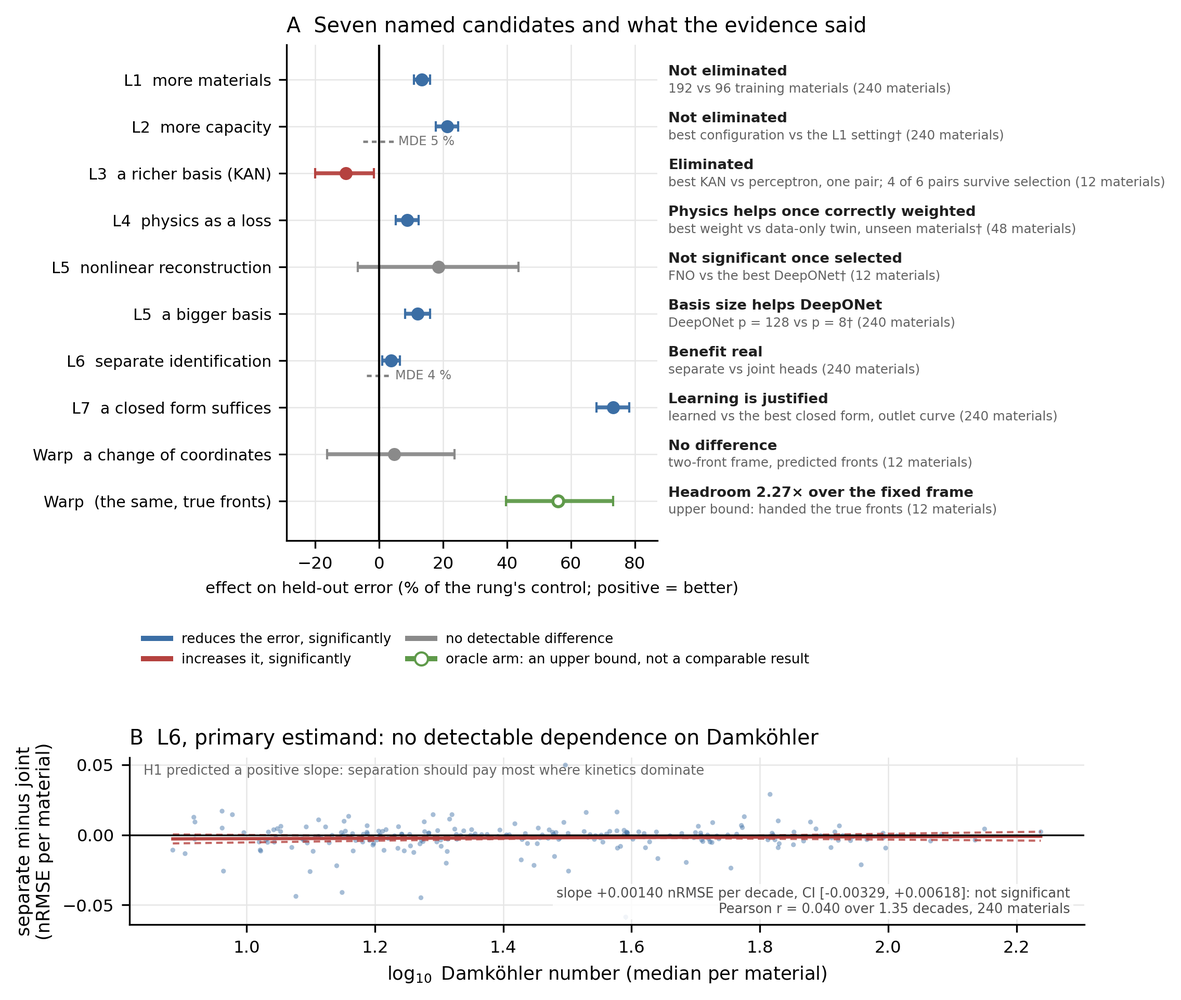
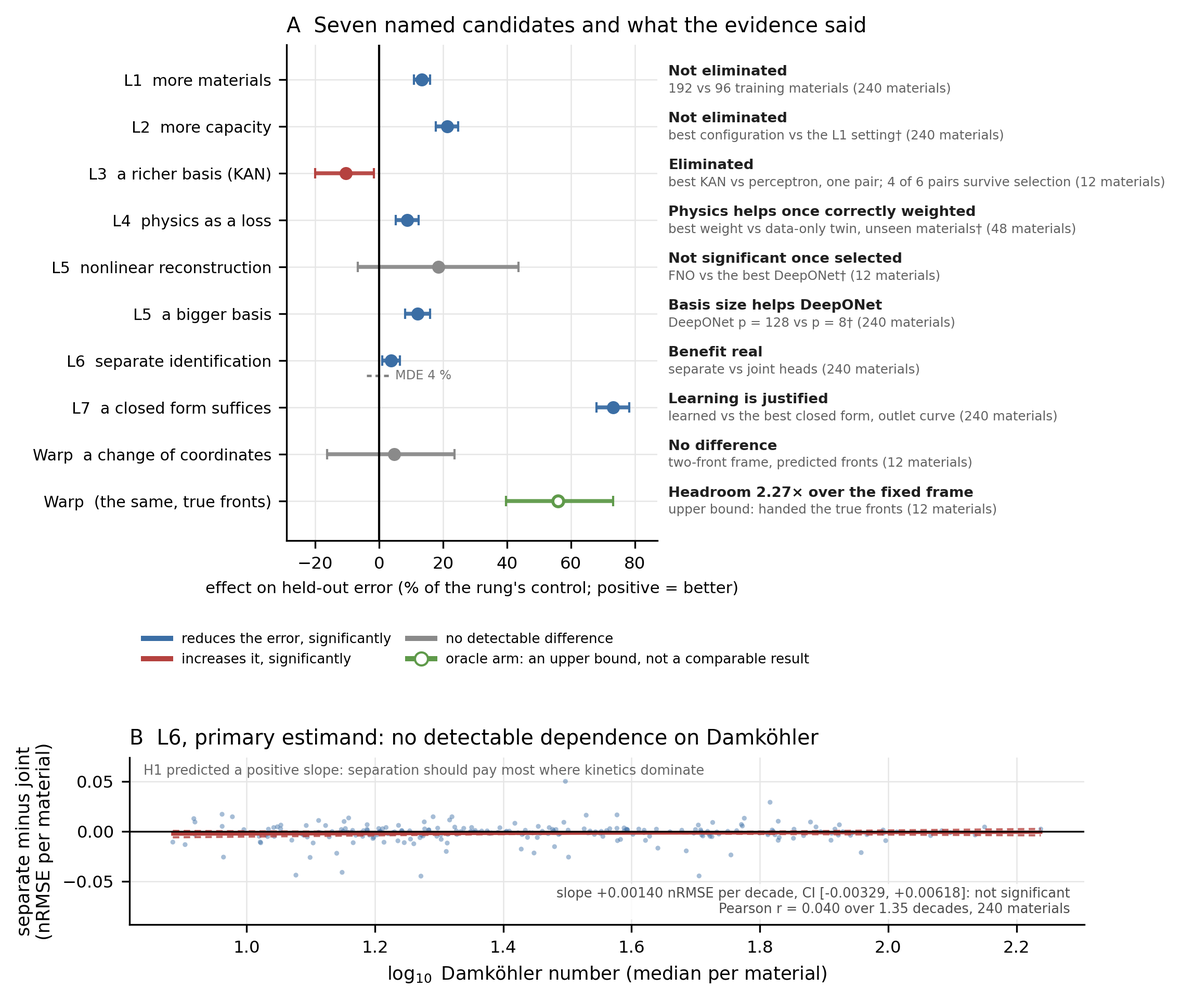
Final full read addressed: two cross-references repointed to Section 2 after the restructure; Figure 10's fourth curve, D_e, k and Pe explained and the bracketing curves named; every oracle calibration named in contribution 1 reported in Section 8; the garbled L3 sentence rewritten; 'sweeps' not 'fa

diff --git a/paper/manuscript.tex b/paper/manuscript.tex
@@ -160,7 +160,7 @@ the range is extended past it, unless the metric has demonstrably stopped changi
 \centering
 \includegraphics[width=\textwidth]{../figures/Fig0_schematic.pdf}
 \caption{What a surrogate maps. \textbf{A}~A packed bed of adsorbent pellets fed humid
-air; the eleven numbers of Table~\ref{tab:params} describe the adsorbent, the bed and
+air; eleven parameters (Section~\ref{sec:methods}) describe the adsorbent, the bed and
 the operating condition. \textbf{B}~One stored solver field of the larger dataset,
 \(c/c_{\mathrm{in}}\) over position and time, chosen by a fixed rule (the clearest
 complete two-front breakthrough). \textbf{C}~Its outlet curve: a fast front on the
@@ -191,7 +191,7 @@ established in operator learning: Poseidon \cite{herde2024poseidon} pretrains on
 reports that it ``generalizes very well to new physics that is not seen during
 pretraining'' across fifteen downstream tasks, and Multiple Physics Pretraining \cite{mccabe2023multiple}
 reports transfer to ``systems with previously unseen physical components''.
-Held-out \emph{materials} is established for interatomic potentials: MOFSimBench \cite{krass2025mofsimbench}
+Testing on held-out \emph{materials} is established for interatomic potentials: MOFSimBench \cite{krass2025mofsimbench}
 evaluates twenty universal machine-learning interatomic potentials on
 metal--organic frameworks. In adsorption-process engineering a surrogate that takes
 the material as an input is also established: MAPLE \cite{pai2020generalized} takes
@@ -206,7 +206,7 @@ process level with the help of learned models
 our first rungs are a non-intrusive reduced-order model in the sense of Hesthaven and
 Ubbiali \cite{hesthaven2018non}: a POD basis with a
 learned map from parameters to its coefficients. To the surrogate, a ``material'' is a
-point in the space of isotherm and bed parameters of Table~\ref{tab:params}, with its
+point in the space of isotherm and bed parameters (Section~\ref{sec:methods}), with its
 kinetics derived from them, and a sample adds the operating conditions; the
 question this paper asks (which term binds the error, the basis or the map) is
 the parametric reduced-order-model question, asked of an adsorption column and
@@ -293,7 +293,7 @@ separate phase; it holds a negligible amount of water next to the adsorbed phase
 the material's step humidity at the feed temperature. Feed concentration follows
 from relative humidity through the ideal-gas law and a Magnus saturation pressure.
 
-\paragraph{Boundary and initial conditions} Both inlets are of flux (Danckwerts)
+\paragraph{Boundary and initial conditions} Both inlet conditions are of flux (Danckwerts)
 type: on the feed side of the inlet face there is no dispersion or conduction, so the
 feed's advective flux equals the bed's advective plus dispersive (or conductive) flux
 just inside it,
@@ -445,7 +445,8 @@ Langmuir.
 Measured across all \nIsoNmat\ sampled materials rather than at two named
 configurations: \(n > 1\) strictly for every material, so the cooperative term
 is \(o(c)\) at the origin and the Henry constant is finite and positive everywhere.
-But \(K_H\) spans \nIsoKHmin--\nIsoKHmax\ \si{\mole\per\kilo\gram} per
+But the Henry constant \(K_H = q_{\max} f_H b_H\), the slope of
+equation~\eqref{eq:isotherm} at the origin, spans \nIsoKHmin--\nIsoKHmax\ \si{\mole\per\kilo\gram} per
 \si{\mole\per\metre\cubed}, \nIsoKHdec\ decades, median \nIsoKHmed. The
 concentration at which the cooperative term reaches 1\,\% of loading (the top of
 the accessible Henry region) reaches \(10^{\nIsoHenryMax}\) of the feed at best
@@ -589,7 +590,8 @@ survive that calibration and was withdrawn (Section~\ref{sec:corrections}, A13).
 cost accounting, the re-measurement of L5's basis-versus-map decomposition and L5's
 DeepONet basis-size sweep run on the
 \nNclustFolds-material folds at \(\alpha = \nAlphaFolds\). Rung L4 runs on the single
-split (\nLfourbMatNmat\ held-out materials on its material axis) at \(\alpha = \nAlphaManifest\). Rung L3,
+split (\nLfourbMatNmat\ held-out materials on its material axis) at \(\alpha = \nAlphaManifest\)
+(empirical size \nFprManifestCal\,\%). Rung L3,
 L5's operator comparisons, the first measurement of its decomposition and the
 coordinate change run on the earlier \nNclustLegacy-material design and report at \(\alpha = \nLfiveAlpha\),
 which achieves an empirical size of \nFprLegacyUsed\,\% there, stricter than the
@@ -849,7 +851,7 @@ normalised root-mean-square error (equation~\eqref{eq:nrmse}).}
 \begin{figure}[!tbp]
 \centering
 \includegraphics[width=\textwidth]{../figures/Fig3_rungs.pdf}
-\caption{The rungs that measure a curve. \textbf{A}~L1's fixed-basis arms over 240 held-out materials, against the POD floor. \textbf{B}~The materials learning curve (\nLCpField\ POD modes of \(c\), one gradient-boosted regressor per mode) with the basis refit on each subset and with it fixed on all 192; the two lie on top of each other; \(N_{\mathrm{mat}}\) is the number of training materials. \textbf{C}~L2's capacity sweep: held-out error is U-shaped in depth while training error falls almost monotonically (it rises only at the deepest setting). \textbf{D}~L3 at three matched budgets, each family at its own best learning rate; those rates span three orders of magnitude (Section~\ref{sec:ladder}).}
+\caption{The rungs that measure a curve. \textbf{A}~L1's fixed-basis arms over 240 held-out materials, against the POD floor. \textbf{B}~The materials learning curve (\nLCpField\ POD modes of \(c\), one gradient-boosted regressor per mode) with the basis refit on each subset and with it fixed on all 192; the two lie on top of each other; \(N_{\mathrm{mat}}\) is the number of training materials. \textbf{C}~L2's capacity sweep: held-out error is U-shaped in depth while training error falls almost monotonically (it rises only at the deepest setting). \textbf{D}~L3 at three matched budgets, each family at its own best learning rate; those rates span three orders of magnitude (Section~\ref{sec:ladder}). MLP, multilayer perceptron; KAN, Kolmogorov--Arnold network; RBF, radial basis function; nRMSE (\(c\)), the error of equation~\eqref{eq:nrmse} on the concentration channel.}
 \label{fig:rungs}
 \end{figure}
 
@@ -898,7 +900,7 @@ materials, \nLClargestFixed\ against \nLClargest\ at 192. A basis fitted on 12
 materials reconstructs held-out fields as well as one fitted on 192, once the
 regressor sees the same data. \emph{None of the gain is in the basis; all of it is
 in the parameter-to-coefficient map.} Modes whose coefficient map clears
-a fifth of the variance grow from \nLCmodesSmall\ to \nLCmodesLarge\ and are still climbing (Figure~\ref{fig:mechanism}).
+a fifth of the variance grow from \nLCmodesSmall\ to \nLCmodesLarge\ and are still climbing (Section~\ref{sec:mechanism}).
 
 The conditions axis behaves differently: exponent \nLCcondBeta, \nLCexpRatio{} of the material
 exponent. Both axes are open; materials are the one that matters.
@@ -918,7 +920,7 @@ whole field, is worth a constant factor (Section~\ref{sec:mechanism}).
 \subsection{L2: more capacity}
 
 \nLtwoNconfigs{} configurations in both directions around the L1 setting, on the same
-folds and basis. \nLtwoNUshaped{} families are U-shaped with interior optima
+folds and basis. \nLtwoNUshaped{} sweeps are U-shaped with interior optima
 (width \nLtwoWidthBest{} for the perceptron's width, \nLtwoDepthBest{} layers for its depth, tree
 depth \nLtwoXgbBest{} for gradient boosting) and the random forest
 \nLtwoRfShape: it is still improving at its last step, but that step is a fully
@@ -932,7 +934,7 @@ is still improving at its last step (fully grown trees, \nLtwoRfBest; last-step
 interval [\nLtwoRfLastLo, \nLtwoRfLastHi]). The rule then asks for the sweep to be
 extended, and it cannot be: one sample per leaf is the ceiling of that family's
 capacity. The verdict therefore stays as declared. Our interpretation, which is
-not part of the verdict: the \nLtwoNUshaped{} neural and boosting families saturate with interior
+not part of the verdict: the neural and boosting families saturate with interior
 optima, and the one family that has not run out of improvement has run out of
 capacity while sitting well behind the best perceptron. Either way, the optimum is not where the
 earlier sweep left it. The best configuration anywhere is \nLtwoBestName\
@@ -976,10 +978,10 @@ could only widen its lead over arms that are all bracketed, so we report it rath
 than extend it. The Kolmogorov--Arnold arms, the ones being argued against, are the
 ones whose tuning is complete.
 
-Comparing against the strongest configuration found anywhere rather than the
-matched-budget cell, which is a separate audit configuration (a fixed budget, depth three,
-each arm at the better of two higher learning rates per seed), which is why its
-perceptron rate differs from the sweep's: the best Kolmogorov--Arnold network in the entire study is the
+The strongest configuration found anywhere is not the matched-budget cell but a
+separate audit configuration (a fixed budget, depth three, each arm at the better of two
+higher learning rates per seed), which is why its perceptron rate differs from the
+sweep's. In it, the best Kolmogorov--Arnold network in the entire study is the
 \emph{least} Kolmogorov--Arnold-like one, and it reaches \nLthreeBestKan\ against
 the perceptron's \nLthreeBestKanMlp, a difference of \nLthreeBestKanDiff,
 interval [\nLthreeBestKanLo, \nLthreeBestKanHi]: \nLthreeBestKanSig. That interval
@@ -1208,7 +1210,7 @@ sweep is confounded with width at a matched budget: the spectral weights cost
 \(\mathcal{O}(w^2 m^2)\), so width falls as modes rise. The monotone degradation
 across that sweep therefore \emph{cannot} be read as ``more Fourier modes do not
 help''. The basis-size statements are made for DeepONet, where \(p\) and width are
-controlled separately, and is not claimed for the Fourier operator.
+controlled separately, and are not claimed for the Fourier operator.
 
 \subsection{L6: separate identification of the kinetic and equilibrium objects}
 
@@ -1236,7 +1238,7 @@ therefore not ruled out; what is ruled out is a dependence strong enough to have
 seen at this design's resolution. The axis is also not purely kinetic: for the
 \nDcExtendedPct\,\% of runs whose horizon was extended, Damk\"ohler exceeds the kinetic
 ratio \(k_{\mathrm{LDF}}t_{\mathrm{st}}\) by the extension factor
-(Section~\ref{sec:methods}), so part of its spread is the length of the run.
+(Section~\ref{sec:model}), so part of its spread is the length of the run.
 
 \paragraph{The scope of that refutation} Kinetic control means Damk\"ohler well below unity, and this dataset never
 goes there: its lowest per-material value is \nDaMatMin. The hypothesis predicted
@@ -1248,7 +1250,7 @@ oversight: the kinetic coefficient is not a free parameter in this dataset but i
 derived from particle size through the Glueckauf relation, so
 \(\mathrm{Da} \propto d_p^{-2}\) and reaching \(\mathrm{Da} = 1\) from our slowest
 bed would take a pellet of about \nDaPelletForUnity\,\si{\milli\metre}. That is
-\nDaPelletsAcross\ pellets across the \nDataBedLenCm\,\si{\centi\metre} column, where a
+\nDaPelletsAcross\ pellet diameters along the \nDataBedLenCm\,\si{\centi\metre} column, where a
 one-dimensional plug-flow model is no longer the right description. This is the same
 objection Section~\ref{sec:limitations} raises against our own anchor bed. Decoupling
 \(k_{\mathrm{LDF}}\) from \(d_p\) to reach that regime would restore precisely the
@@ -1371,7 +1373,9 @@ predicting the mean, and
 
 Against an oracle reconstruction handed the true coefficients for its first \(k\)
 modes, the best DeepONet found anywhere performs like a \nLfiveOracleONet-mode
-oracle, and the best Fourier operator like a \nLfiveOracleFNO-mode one. Three
+oracle, the best Fourier operator like a \nLfiveOracleFNO-mode one, DeepOKAN like a
+\nLfiveOracleOKAN-mode one and POD with gradient boosting like a
+\nLfiveOraclePodReg-mode one. Three
 independent function classes (POD plus random forest,
 plus gradient boosting, and DeepONet) are flat in rank on the legacy design while the floor falls by a factor of \nFloorDrop{} (on the full design DeepONet gains a little up to \(p = 16\), A29). Training basis and coefficients together, or learning the
 whole field at once, is worth a constant factor, up to \(\nOperatorLever\times\)
@@ -1415,7 +1419,7 @@ inference, made twice.
 \(k = 8\)--64. The Kolmogorov \(n\)-width, whose \(n\) is this mode count, is the
 residual \emph{norm}, the square root of that, so it decays as \(k^{\nNwidthExpErr}\)
 and halving the error requires
-\(\nNwidthHalving\times\) the modes permanently. We separate the two because an
+\(\nNwidthHalving\times\) the modes. We separate the two because an
 earlier draft quoted the energy exponent and called it the \(n\)-width, next to a
 halving factor computed correctly from the norm: two numbers in one sentence
 that disagreed by a factor of two in the exponent. Any method whose output is a linear
@@ -1557,7 +1561,7 @@ and the wall clock from the comparison and leaves a ratio a reader can carry to 
 hardware. On ours, the \nCostNSolves\ accepted simulations of the dataset took
 \nCostGenWall\ hours on \nCostWorkers\ workers, so one solve-equivalent is
 \nCostSolveSec\ worker-seconds and the whole training set cost about
-\nCostGenCoreHours\ core-hours. We report worker-seconds rather than
+\nCostGenCoreHours\ worker-hours. We report worker-seconds rather than
 core-seconds because a worker's own numerical libraries may use more than one
 thread, so this is an upper bound on the serial cost of a solve and a lower bound on
 what it occupies of a machine.
@@ -1761,8 +1765,11 @@ not modest for the anchor.
 reported as a limitation rather than as a result. The pre-registered primary uses the
 high-P\'eclet limit of the correlation; the second curve is the \emph{same}
 correlation without that truncation, at the same particle size, velocity and
-molecular diffusivity; the third is the authors' own Bruggeman closure. The measured
-95\,\% arrival time is bracketed by the last two.}
+molecular diffusivity; the third is the authors' own Bruggeman closure for the
+effective dispersion \(D_e\); the fourth repeats that closure at the smallest LDF
+constant \(k\) (in s\(^{-1}\)) that still keeps the step. Pe is the column P\'eclet
+number. The measured 95\,\% arrival time is bracketed by the untruncated correlation and
+the authors' Bruggeman closure.}
 \label{fig:anchorposthoc}
 \end{figure}
 
@@ -1811,7 +1818,7 @@ surrogate built only for harvesting conditions would not need them.
 
 \paragraph{The step does not move between feed temperatures} The cluster affinity is
 set per run so that the step sits at the material's step humidity at the feed
-temperature (Section~\ref{sec:methods}). Within a run the step still moves with the
+temperature (Section~\ref{sec:model}). Within a run the step still moves with the
 local bed temperature through the heat of adsorption, but across runs a material's
 step humidity at the feed temperature is the same by construction. In real MOF-303
 it moves with temperature \cite{hastings2024high}. The
@@ -1827,7 +1834,7 @@ constant.
 measurement on a covalent organic framework (COF) suitable for this comparison, so no
 claim is made for that class.
 
-\paragraph{Three rungs are exploratory} L3, L5's operator comparison and the
+\paragraph{Three comparisons are exploratory} L3, L5's operator comparison and the
 coordinate change are measured over \nNclustLegacy\ held-out materials, L4 over
 \nLfourbMatNmat, and L1, L2, L6 and L7 over \nNclustFolds. A verdict measured at one
 material count need not survive another (A26), so the three small-design verdicts are
@@ -1863,7 +1870,7 @@ each coefficient separately is worth up to \(\nOperatorLever\times\), of the sam
 as the \(\nLCratio\times\) that sixteen times more materials buys a fixed learner.
 
 \paragraph{What is eliminated, and what is not} Capacity is not eliminated: a random
-forest is still improving at its capacity ceiling, while the \nLtwoNUshaped{} neural and
+forest is still improving at its capacity ceiling, while the neural and
 boosting families saturate. At matched parameters a perceptron beats both
 Kolmogorov--Arnold families in every comparison by point estimate, \nLthreeSigSim\ of
 \nLthreePairs\ significantly after selection (exploratory). The Kolmogorov \(n\)-width
@@ -1917,7 +1924,7 @@ public repository,
 history, and the release that accompanies this article is archived at Zenodo
 \cite{batayhi2026code}, whose record links every later version. Dataset
 manifests are tracked; the field arrays are regenerable from the generator with the
-recorded seed, at a cost of about \nCostGenCoreHours\ core-hours for the larger dataset.
+recorded seed, at a cost of about \nCostGenCoreHours\ worker-hours for the larger dataset.
 
 \section*{Declaration of competing interest}
 The author declares no competing interests.

diff --git a/paper/references.py b/paper/references.py
@@ -56,11 +56,11 @@ VIA = {
         r"the boundary conditions, read through Pearson~\cite{pearson1959note}",
     "glueckauf1955theory":
         r"the linear-driving-force factor, read through Perry's handbook~\cite{levan2019adsorption} "
-        r"and Cruz, Magalh\~aes and Mendes, who attribute the plain factor to the companion "
+        r"and Cruz, Magalh\~aes and Mendes~\cite{cruz2006generalized}, who attribute the plain factor to the companion "
         r"paper~\cite{glueckauf1947theory}, which is why both are cited",
     "klinkenberg1948numerical":
         r"the breakthrough approximation, read through Seader, Henley and Roper's "
-        r"\emph{Separation Process Principles}, which attributes it to the later "
+        r"\emph{Separation Process Principles}~\cite{seader2011separation}, which attributes it to the later "
         r"paper~\cite{klinkenberg1954heat}; neither primary could be retrieved, so both are cited",
     "anzelius1926uber":
         r"the Anzelius--Schumann solution, read through Perry's handbook~\cite{levan2019adsorption}",
@@ -703,6 +703,21 @@ REFS = [
      "Closest prior art on the warp in our own domain: ONE scalar dilation, single-sigmoid "
      "BTCs. Cite prominently and generously.", False),
 
+    # ------------------------------------------- the secondary sources named in VIA
+    ("cruz2006generalized", V, "article", dict(
+        author="P. Cruz and F. D. Magalh{\\~a}es and A. Mendes",
+        title="Generalized linear driving force approximation for adsorption of multicomponent mixtures",
+        journal="Chemical Engineering Science", volume="61", number="11", pages="3519--3531",
+        year="2006", doi="10.1016/j.ces.2006.01.001"),
+     "Read for the attribution of the plain LDF factor (their Eq. 44) to Glueckauf and Coates 1947. "
+     "Record from Crossref, 2026-10-12. Named in VIA but missing from the list until the final read.", False),
+    ("seader2011separation", V, "book", dict(
+        author="J. D. Seader and Ernest J. Henley and D. Keith Roper",
+        title="Separation Process Principles: Chemical and Biochemical Operations",
+        edition="3", publisher="Wiley", year="2011", isbn="9780470481837"),
+     "The secondary source for the Klinkenberg erf approximation and its 1954 attribution (B54). "
+     "Edition record from Open Library (ISBN 9780470481837), 2026-10-12.", False),
+
     # ------------------------------------------------- the data reference (guide, Option C)
     ("batayhi2026code", V, "misc", dict(
         author="Abdulhamid Batayhi",
@@ -795,8 +810,12 @@ def main():
     with open(os.path.join(ROOT, "paper", "secondary_sources.tex"), "w", encoding="utf-8") as fh:
         fh.write("% GENERATED BY paper/references.py from VIA -- DO NOT EDIT.\n"
                  "\\begin{itemize}\n")
+        # references read through the same source for the same thing share one item
+        groups = {}
         for e in partial:
-            fh.write(f"\\item \\cite{{{e[0]}}}: {VIA[e[0]]}.\n")
+            groups.setdefault(VIA[e[0]], []).append(e[0])
+        for text, keys in groups.items():
+            fh.write(f"\\item \\cite{{{','.join(keys)}}}: {text}.\n")
         fh.write("\\end{itemize}\n")
 
     with open(OUT, "w", encoding="utf-8") as fh:

diff --git a/paper/secondary_sources.tex b/paper/secondary_sources.tex
@@ -1,9 +1,8 @@
 % GENERATED BY paper/references.py from VIA -- DO NOT EDIT.
 \begin{itemize}
 \item \cite{danckwerts1953continuous}: the boundary conditions, read through Pearson~\cite{pearson1959note}.
-\item \cite{glueckauf1955theory}: the linear-driving-force factor, read through Perry's handbook~\cite{levan2019adsorption} and Cruz, Magalh\~aes and Mendes, who attribute the plain factor to the companion paper~\cite{glueckauf1947theory}, which is why both are cited.
-\item \cite{klinkenberg1948numerical}: the breakthrough approximation, read through Seader, Henley and Roper's \emph{Separation Process Principles}, which attributes it to the later paper~\cite{klinkenberg1954heat}; neither primary could be retrieved, so both are cited.
-\item \cite{anzelius1926uber}: the Anzelius--Schumann solution, read through Perry's handbook~\cite{levan2019adsorption}.
-\item \cite{schumann1929heat}: the Anzelius--Schumann solution, read through Perry's handbook~\cite{levan2019adsorption}.
+\item \cite{glueckauf1955theory}: the linear-driving-force factor, read through Perry's handbook~\cite{levan2019adsorption} and Cruz, Magalh\~aes and Mendes~\cite{cruz2006generalized}, who attribute the plain factor to the companion paper~\cite{glueckauf1947theory}, which is why both are cited.
+\item \cite{klinkenberg1948numerical}: the breakthrough approximation, read through Seader, Henley and Roper's \emph{Separation Process Principles}~\cite{seader2011separation}, which attributes it to the later paper~\cite{klinkenberg1954heat}; neither primary could be retrieved, so both are cited.
+\item \cite{anzelius1926uber,schumann1929heat}: the Anzelius--Schumann solution, read through Perry's handbook~\cite{levan2019adsorption}.
 \item \cite{dodo2000model}: the two-term functional form, read through Buttersack~\cite{buttersack2019modeling}, who proposes a competing isotherm.
 \end{itemize}

diff --git a/build_paper.py b/build_paper.py
@@ -63,7 +63,7 @@ _ALLOWED_PAIRS = [
     ("2000", "N_z, a grid size"),
     # the validate.py gate count used to be allow-listed here as "24"; it is a RESULT
     # and is now the macro \nGates, read from results/validation.json
-    ("1", "ordinal / unity; the 1 of 1 - eps_t and 1 + b c in the model equations"),
+    ("1", "ordinal / unity; the 1 of 1 - eps_t and 1 + b c in the model equations; unit exponents such as s^-1"),
     ("2", "ordinal / a term count; squares, square roots and radii (d_p/2) in the model equations and units; chemical-formula subscripts (Co_2Cl_2)"),
     ("3", "seed count and ordinal; the cube in density units (kg m^-3)"),
     ("4", "ordinal, and the oracle-equivalent mode count; the 4 of the wall term 4 h_w / D_in; the 4pt column gap of Table 3"),
@@ -119,7 +119,7 @@ for _k, _why in _ALLOWED_PAIRS:
 # looks at the new sentence and re-states why it is not a result. A count of 0 marks
 # a reason whose sentence has gone: the literal may not come back unreviewed.
 ALLOWED_COUNT = {
-    "0": 4, "0009": 2, "0007": 2, "0374": 2, "6755": 2, "34349": 1, "0.2": 4, "0.5": 2, "0.7": 2, "1": 32, "1.1": 1, "1.5": 1, "2": 34,
+    "0": 4, "0009": 2, "0007": 2, "0374": 2, "6755": 2, "34349": 1, "0.2": 4, "0.5": 2, "0.7": 2, "1": 33, "1.1": 1, "1.5": 1, "2": 34,
     "3": 3, "4": 8, "5": 4, "6": 1, "8": 8, "9.7": 1, "10": 15, "12": 7, "16": 5,
     "20": 1, "24": 1, "48": 4, "50": 2, "60": 2, "64": 3, "76": 1, "79": 1, "80": 5,
     "95": 3, "96": 3, "99.9": 2, "128": 6, "192": 10, "240": 2, "256": 1,

diff --git a/paper/numbers.py b/paper/numbers.py
@@ -152,6 +152,7 @@ SPEC = [
     ("FprFoldsNominal", "results/calibration_v2.json", "v2_5fold.fpr_by_alpha.0.05", "{:.1f}"),
     ("FprFoldsCal", "results/calibration_v2.json", "v2_5fold.fpr_by_alpha.0.02", "{:.1f}"),
     ("AlphaManifest", "results/calibration_v2.json", "v2.alpha", "{:g}"),
+    ("FprManifestCal", "results/calibration_v2.json", "v2.fpr_by_alpha.0.02", "{:.1f}"),
     ("NclustManifest", "results/calibration_v2.json", "v2.n_clusters", "{:d}"),
     ("FprLegacyNominal", "results/calibration_v2.json", "legacy.fpr_by_alpha.0.05", "{:.1f}"),
     ("NclustLegacy", "results/calibration_v2.json", "legacy.n_clusters", "{:d}"),
@@ -655,7 +656,8 @@ SPEC = [
      lambda s: str(s['per_nz'][str(s['nz_matching_l1'])]['n'])),
     ("CoarseTargetPct", "results/coarse_solver_baseline.json", "summary.target_l1_mlp", lambda x: f"{100 * x:.1f}"),
     # B-FIT (fitted_classical.py; PREREG_BASELINES §3)
-    ("BfitWords", "results/fitted_classical.json", "words", "{}"),
+    ("BfitWords", "results/fitted_classical.json", "words",
+     lambda v: re.sub(r"(\d)x\)", "\\1\u00d7)", v)),   # "2.44x)" printed with a true times sign
     ("BfitFitted", "results/fitted_classical.json", "fitted_mean", "{:.4f}"),
     ("BfitLearned", "results/fitted_classical.json", "learned_mean", "{:.4f}"),
     ("BfitRatio", "results/fitted_classical.json", "ratio_fitted_over_learned", "{:.2f}"),

diff --git a/fig_ladder.py b/fig_ladder.py
@@ -126,7 +126,7 @@ def build_rows():
         add("L2", "more capacity", "best configuration vs the L1 setting†",
             eff, "NOT ELIMINATED",
             "a random forest is still improving at its capacity ceiling; the best configuration is a deeper perceptron (A26, A27)",
-            mde=100 * mde["mde_80"] if isinstance(mde, dict) and mde.get("mde_80") else None)
+            mde=None)   # L2 is a positive result; its sweep-step MDE is not a statement the text makes
     else:
         missing.append("L2 cross-comparison vs the L1 setting (run analyze_l2_v2.py)")
 
@@ -319,6 +319,10 @@ def panel_slope(b):
         b.plot(xs, (st["intercept"] + st["slope"] * mid) + s * (xs - mid), color=fs.C["red"],
                lw=1.0, ls=ls, alpha=0.8)
     b.axhline(0, color="k", lw=0.8)
+    # head- and foot-room for the two annotations, so neither covers a data point
+    lo, hi = yv.min(), yv.max()
+    span = hi - lo
+    b.set_ylim(lo - 0.32 * span, hi + 0.22 * span)
     b.set_xlabel("$\\log_{10}$ Damköhler number (median per material)")
     b.set_ylabel("separate minus joint\n(nRMSE per material)")
     b.set_title("B  L6, primary estimand: no detectable dependence on Damköhler")

diff --git a/paper/numbers.tex b/paper/numbers.tex
@@ -23,6 +23,7 @@
 \newcommand{\nFprFoldsNominal}{6.5}
 \newcommand{\nFprFoldsCal}{2.8}
 \newcommand{\nAlphaManifest}{0.02}
+\newcommand{\nFprManifestCal}{5.0}
 \newcommand{\nNclustManifest}{48}
 \newcommand{\nFprLegacyNominal}{8.5}
 \newcommand{\nNclustLegacy}{12}
@@ -363,7 +364,7 @@
 \newcommand{\nCoarseNfail}{7}
 \newcommand{\nCoarseNsamp}{240}
 \newcommand{\nCoarseTargetPct}{3.1}
-\newcommand{\nBfitWords}{learning remains justified against a fitted classical form (2.44x)}
+\newcommand{\nBfitWords}{learning remains justified against a fitted classical form (2.44×)}
 \newcommand{\nBfitFitted}{0.1158}
 \newcommand{\nBfitLearned}{0.0474}
 \newcommand{\nBfitRatio}{2.44}

diff --git a/CITATIONS.md b/CITATIONS.md
@@ -615,6 +615,7 @@ record them):
 
 | key | source, date | authors as given |
 |---|---|---|
+| seader2011separation | Open Library ISBN 9780470481837 (3rd ed., Wiley, 2011), 2026-10-12 | J. D. Seader, Ernest J. Henley, D. Keith Roper |
 | batayhi2026code | Zenodo API records 23302587 (v1.0-preprint, 2026-10-11) and 23305298 (v1.0.1-cmame, 2026-10-12) | Batayhi, Abdulhamid (ORCID 0009-0007-0374-6755) |
 | levan2019adsorption | accessengineeringlibrary.com, Perry's 9th ed., Section 16 (ISBN 9780071834087), 2026-10-11 | M. Douglas LeVan Ph.D.; Giorgio Carta Ph.D.; James A. Ritter Ph.D.; Krista S. Walton Ph.D. (editors: Don W. Green; Marylee Z. Southard) |
 | levan2019adsorption | (no DOI; Perry's 9th ed.) | no fetchable byline record; reduced to surnames "LeVan and Carta", the form recorded above |
